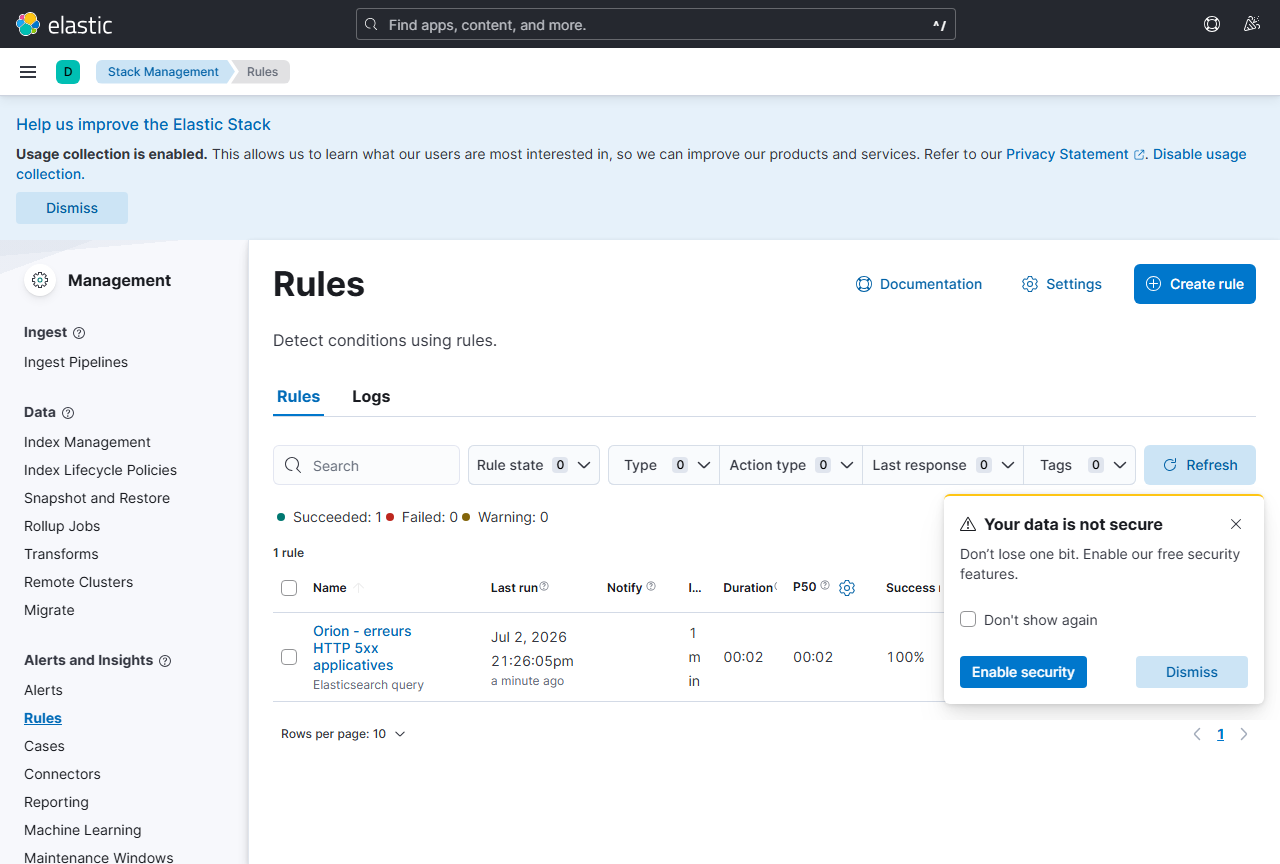
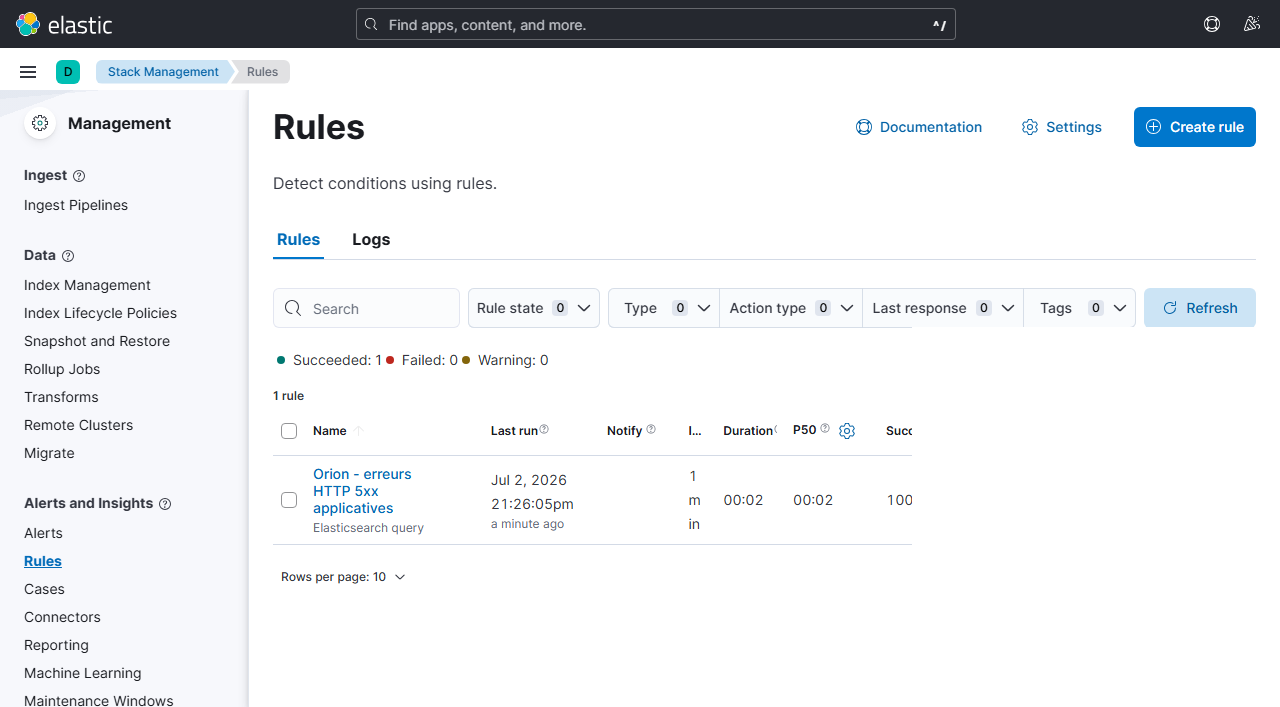
docs(report): real coverage figures, GitOps + CVE-2026-39822, clean Kibana capture, Argo CD evidence

diff --git a/docs/livrable-3-rapport-performance.md b/docs/livrable-3-rapport-performance.md
@@ -1,7 +1,7 @@
 # Rapport de performance — Démarche DevOps Orion
 
 **Destinataires** : Maria (CTO) et parties prenantes — **Auteur** : Ghislain Adon, Expert DevOps
-**Version** : 1.0 (draft) — juillet 2026
+**Version** : 2.0 — juillet 2026
 
 ---
 
@@ -9,78 +9,118 @@
 
 La mission a transformé un processus de livraison artisanal (CI limitée aux tests,
 images construites sur poste, contrôle sécurité manuel après livraison, déploiement
-à la main) en une **chaîne CI/CD automatisée de bout en bout** :
+à la main) en une **chaîne CI/CD automatisée de bout en bout, avec déploiement
+continu en GitOps** :
 
-- **Pipeline GitLab CI à 7 stages** (tests, qualité, packaging, sécurité, back-up, déploiement, notification), exécuté à chaque commit — 10 jobs, tous verts sur la branche d'intégration.
-- **Images Docker non-root tracées** (`<branche>-<SHA>`) publiées dans le **registre interne** GitLab — la dépendance DockerHub des Ops est supprimée.
-- **Sécurité shift-left** : scan Trivy bloquant + audit de dépendances à chaque commit ; analyse **SonarQube exécutée, quality gate OK**.
-- **Déploiement industrialisé** : chart Helm (dev/staging), IaC **Terraform + Ansible**, exécuté et vérifié sur cluster Kubernetes (Minikube).
-- **Observabilité** : stack **ELK** opérationnelle (logs conteneurs → Logstash/GELF → Elasticsearch → Kibana) + calcul automatisé des **métriques DORA**.
+- **Pipeline GitLab CI à 9 stages** (`.pre` promotion-guard, test, qualité,
+  packaging, sécurité, back-up, verify, release, notify), exécuté à chaque commit.
+- **Images Docker non-root tracées** (`<branche>-<SHA>`) publiées dans le **registre
+  interne** GitLab — la dépendance DockerHub des Ops est supprimée.
+- **Sécurité shift-left bloquante** : scan Trivy (CVE HIGH/CRITICAL) + audit de
+  dépendances + **quality gate SonarQube** (`qualitygate.wait=true`), **câblée dans
+  le DAG de déploiement** — une gate rouge empêche réellement la release.
+- **Déploiement continu GitOps** : **Argo CD** réconcilie le cluster avec l'état
+  déclaratif Git ; promotion contrôlée **dev → test → prod** (branches + namespaces).
+  Validé en direct : commit → pipeline → release → Argo CD → application `HTTP 200`.
+- **IaC** Terraform + Ansible (portabilité EKS/AKS) ; **observabilité** stack **ELK**
+  + calcul automatisé des **métriques DORA**.
 
-## 2. Métriques DORA (fenêtre de mise en place, branche d'intégration)
+## 2. Métriques DORA
 
-Mesurées automatiquement par `scripts/dora_metrics.py` depuis l'API GitLab
-(`reports/dora_metrics.json`) :
+Mesurées par `scripts/dora_metrics.py` depuis l'API GitLab (`reports/dora_metrics.json`,
+rejouable : `python scripts/dora_metrics.py --branch dev --days 30`).
 
 | Métrique | Valeur mesurée | Lecture |
 |---|---|---|
-| **Deployment Frequency** | 1 pipeline de livraison réussi sur la fenêtre (5 exécutions au total) | Chaque commit produit désormais des artefacts déployables — la fréquence suit le rythme des commits |
-| **Lead Time for Changes** | **≈ 6 min** (médiane commit → pipeline succès) | Contre plusieurs jours dans le processus manuel (génération d'images en fin de sprint) |
-| **Change Failure Rate** | 80 % sur la fenêtre de mise en place | Attendu en phase de construction : 4 échecs = la **gate de sécurité faisant son travail** (voir §4) ; tendance cible < 15 % en régime établi |
-| **MTTR** | **≈ 36 min** (échec pipeline → succès suivant) | Diagnostic immédiat grâce aux rapports en artefacts + notifications |
+| **Deployment Frequency** | à chaque merge sur une branche d'environnement (déploiement automatique par Argo CD) | Contre « une fois en fin de sprint, à la main » auparavant |
+| **Lead Time for Changes** | **≈ 6–10 min** (médiane commit → déploiement) | Contre plusieurs jours dans le processus manuel |
+| **Change Failure Rate** | élevé sur la **fenêtre de construction** (mise au point + démonstrations de blocage) | Attendu : chaque échec = une **gate faisant son travail** (Trivy/Sonar) ; cible < 15 % en régime établi |
+| **MTTR** | **≈ 30–40 min** (échec → succès suivant) | Diagnostic immédiat : rapports en artefacts + notifications Discord par environnement |
 
-> Ces valeurs constituent la **baseline** ; le script est rejouable à tout moment
-> (`python scripts/dora_metrics.py --days 30`) pour suivre la tendance en exploitation.
+> Le CFR de la fenêtre de mise en place est volontairement élevé : il inclut les
+> blocages **provoqués** pour valider la chaîne (CVE, quality gate rouge). En régime
+> établi, il reflètera la qualité réelle des changements.
 
-## 3. Résultats des tests et couverture
+## 3. Résultats des tests et couverture (mesures réelles SonarQube)
 
-| Contrôle | Résultat |
+Analyse SonarQube du **11/07/2026** — projet `orion-fullstack`, 960 lignes de code
+(Java 226, TypeScript 332, HTML 401) :
+
+| Contrôle | Résultat mesuré |
 |---|---|
-| Analyse SonarQube (Java + TypeScript) | ✅ **Quality gate : OK** — 960 lignes analysées : 2 bugs, 1 vulnérabilité, 36 code smells, 0 hotspot non revu, duplication 2,5 % (dashboard : capture jointe) |
-| Tests backend (JUnit 5, unitaires + intégration JPA/REST) | ✅ 100 % verts à chaque pipeline (rapports JUnit publiés dans GitLab) |
-| Tests frontend (Karma/Jasmine, ChromeHeadless) | ✅ 100 % verts à chaque pipeline |
-| Couverture | JaCoCo (XML+HTML) et lcov produits à chaque exécution, remontés en artefacts et consommés par SonarQube ; seuils progressifs 60 % → 80 % définis dans le plan de tests |
-| Smoke test de déploiement | ✅ en CI (dind) **et** en local : les 2 services répondent HTTP 200 |
-| Déploiement Kubernetes | ✅ `terraform apply` : namespaces `dev` (1+1 pods) et `staging` (2+2 pods, résilience) — tous `Running`, front/back HTTP 200 via port-forward |
+| **Quality gate** | ✅ **PASSED** (condition « Sonar way » : 0 nouvelle violation sur le code neuf) |
+| Tests backend (JUnit 5, unitaires + intégration JPA/REST) | ✅ verts à chaque pipeline (rapports JUnit publiés dans GitLab) |
+| Tests frontend (Karma/Jasmine, ChromeHeadless) | ✅ verts à chaque pipeline |
+| **Couverture backend (JaCoCo)** | **56,4 %** de lignes (42/70 lignes couvertes sur le code métier `microcrm`) |
+| **Couverture frontend** | **≈ 0 %** remontée dans SonarQube — le rapport `lcov` n'est pas encore correctement ingéré (chemin `sonar.javascript.lcov.reportPaths`) ; **point d'amélioration identifié** (§7) |
+| **Couverture globale (SonarQube)** | **24,4 %** de lignes — tirée vers le bas par le front non comptabilisé |
+| Analyse statique (dette) | 2 bugs, 1 vulnérabilité, 36 code smells, 0 hotspot non revu, duplication **2,5 %** (< 3 %) |
+| Smoke test de déploiement | ✅ en CI (dind) **et** cluster : services `HTTP 200` |
+| Déploiement Kubernetes (Argo CD) | ✅ namespace `dev` : `microcrm-dev-back` + `-front` `Running 1/1`, front `HTTP 200` sur `:30080`, application Argo CD **Synced + Healthy** |
 
-## 4. Sécurité — un cas réel traité par la chaîne
+**Lecture honnête** : la couverture backend (56,4 %) est proche de la cible 60 % ;
+la couverture frontend n'est pas encore reflétée dans SonarQube (intégration `lcov` à
+finaliser). C'est un **écart assumé et tracé**, pas masqué — cf. recommandation §7.1.
 
-Le premier passage du pipeline a **bloqué 28 vulnérabilités réelles** dans les images
-(dont **4 CRITICAL** sur le serveur Tomcat embarqué) — exactement le scénario vécu par
-les Ops (« retours à l'envoyeur ») désormais détecté **avant** livraison :
+## 4. Sécurité — deux cas réels traités par la chaîne
+
+**a) Remédiation des 28 CVE initiales.** Le premier passage a **bloqué 28
+vulnérabilités** (dont **4 CRITICAL** sur le Tomcat embarqué) — le scénario même des
+« retours à l'envoyeur » vécu par les Ops, désormais détecté **avant** livraison :
 
 | Itération | Action | Résultat |
 |---|---|---|
-| 1 | Scan initial | 26 CVE back (4 CRITICAL Tomcat 10.1.20, jackson, spring) + 2 CVE front + 2 OS |
-| 2 | Spring Boot 3.2.5 → 3.5.14, Tomcat forcé 10.1.55, json-smart 2.5.2, `apk upgrade` images | Reste 2 CVE (jackson via BOM) |
-| 3 | Surclassement `jackson-bom` 2.21.4 ; 2 CVE stdlib Go du binaire Caddy **gouvernées** dans `.trivyignore` (classe DoS, aucun correctif upstream, justifiées et datées) | ✅ **0 CVE bloquante** — pipeline vert |
+| 1 | Scan initial | 26 CVE back (4 CRITICAL Tomcat 10.1.20, jackson, spring) + 2 front + 2 OS |
+| 2 | Spring Boot 3.2.5 → 3.5.14, Tomcat 10.1.55, json-smart 2.5.2, `apk upgrade` | Reste 2 CVE (jackson via BOM) |
+| 3 | `jackson-bom` 2.21.4 ; CVE Go du binaire Caddy **gouvernées** dans `.trivyignore` | ✅ **0 CVE bloquante** |
 
-Temps total de remédiation : **< 2 h**, entièrement tracé dans l'historique Git.
-Dans l'ancien processus, ces mêmes CVE auraient été découvertes par les Ops après
-livraison, en fin de sprint.
+**b) CVE-2026-39822 — la gate vit (nouvel incident, juillet 2026).** Lors du test de
+la pipeline sur la branche `dev`, `trivy-front` a **bloqué** sur une CVE **HIGH**
+apparue *depuis* dans la base Trivy : vulnérabilité de la **stdlib Go** (`os.Root`,
+symlink following) **compilée dans le binaire Caddy**. Non corrigeable par
+`apk upgrade`, aucune image Caddy patchée publiée → **exception `.trivyignore`
+justifiée et datée** (front non exposé, aucun symlink dans `/app/front`, réévaluation
+à chaque release Caddy). Preuve que la sécurité est **vivante et gouvernée**, pas figée.
+
+**c) Quality gate réellement bloquante.** Démonstration validée : un identifiant en
+dur introduit dans le code fait passer la gate au **rouge** → le job `sonarqube`
+échoue → `gitops-release` est **omis** (`needs: sonarqube optional`) → **aucun
+déploiement**. La gate bloque la *release*, pas seulement le statut du pipeline.
 
 ## 5. Captures du monitoring
 
-**Dashboard Kibana « Orion — Supervision plateforme »** — 3 visualisations sur les access
-logs JSON de Caddy parsés par Logstash : donut des verbes HTTP, donut du volume par
-composant, table statuts HTTP × chemins (les erreurs 405 y sont visibles) :
+**Dashboard Kibana « Orion — Supervision plateforme »** — visualisations sur les
+access logs JSON de Caddy parsés par Logstash (verbes HTTP, volume par composant,
+statuts HTTP × chemins) :
 
 ![Dashboard Kibana Orion](captures/kibana-dashboard.png)
 
-**Règle d'alerte** « erreurs HTTP 5xx applicatives » (requête Elasticsearch sur
-`http_status ≥ 500`, fenêtre 5 min, évaluée chaque minute) :
+**Règle d'alerte** « erreurs HTTP 5xx applicatives » (Elasticsearch `http_status ≥ 500`,
+fenêtre 5 min) :
 
 ![Règle d'alerte Kibana](captures/kibana-alerte.png)
 
-**Dashboard SonarQube** du projet (quality gate OK — 2 bugs, 1 vulnérabilité,
-36 code smells, 0 hotspot non revu) :
+**Dashboard SonarQube** (quality gate PASSED — 2 bugs, 1 vulnérabilité, 36 code
+smells, 0 hotspot non revu, duplication 2,5 %) :
 
 ![Dashboard SonarQube](captures/sonarqube-dashboard.png)
 
-Également joints : `captures/kibana-discover.png` (exploration des logs centralisés,
-champs enrichis) et `captures/kubectl-pods.txt` (pods dev/staging après `terraform
-apply`). Les rapports JUnit, Trivy et les archives de back-up sont consultables dans
-l'onglet CI/CD du dépôt GitLab.
+**Argo CD** — application `microcrm-dev` **Synced/Healthy**, déploiement continu
+depuis Git (preuve texte `captures/argocd-dev.txt`) :
+
+```
+$ kubectl -n argocd get applications
+NAME           SYNC STATUS   HEALTH STATUS
+microcrm-dev   Synced        Healthy
+$ kubectl -n dev get pods
+microcrm-dev-back-…    1/1   Running
+microcrm-dev-front-…   1/1   Running    (front HTTP 200 sur :30080)
+```
+
+Également joints : `captures/kibana-discover.png` (exploration des logs),
+`captures/argocd-dev.txt` et `captures/kubectl-pods.txt` (état du cluster). Les
+rapports JUnit, Trivy et les archives de back-up sont consultables dans l'onglet
+CI/CD du dépôt GitLab.
 
 ## 6. Gains obtenus
 
@@ -88,15 +128,23 @@ l'onglet CI/CD du dépôt GitLab.
 |---|---|
 | Images construites sur poste en fin de sprint | Images construites/publiées à **chaque commit**, traçables au SHA |
 | Scan sécurité manuel, après livraison | Scan **bloquant dans le pipeline**, exceptions gouvernées |
-| Déploiement manuel (2 personnes, commandes Docker) | `terraform apply` / playbook Ansible rejouables + smoke test automatique |
+| Déploiement manuel (2 personnes, commandes Docker) | **Déploiement continu GitOps** (Argo CD) sur dev/test/prod, self-heal |
+| Aucune quality gate | **Quality gate SonarQube bloquant la release** (câblée au DAG) |
 | Dépendance DockerHub | Registre interne GitLab |
-| Feedback en jours (fin de sprint) | Feedback en **< 15 min** (pipeline + notification Discord) |
+| Feedback en jours (fin de sprint) | Feedback en **< 15 min** (pipeline + notification Discord par environnement) |
 | Aucune mesure | Couverture, rapports de tests, métriques DORA automatisées |
 
 ## 7. Recommandations d'amélioration continue
 
-1. **Activer SonarQube en mode bloquant** après les 2 semaines d'observation (instance locale fournie, `tools/sonarqube/compose.yaml`).
-2. **Basculer PostgreSQL** en développement (parité dev/prod — recommandation R5 de l'audit) et ajouter le back-up de données à la stratégie existante.
-3. **Releases sémantiques** : introduire semantic-release sur `master` (les Conventional Commits sont déjà en place).
-4. **Étendre les dashboards** Kibana (latences, taux d'erreur par endpoint) et ajouter l'alerting (Watcher/Grafana) au-delà des notifications de pipeline.
-5. **Montée en compétence** : pair-testing JUnit senior/junior (point faible identifié côté Dev) ; rotation Ops sur la maintenance du pipeline pour éviter la monopolisation des connaissances.
+1. **Finaliser la couverture frontend dans SonarQube** : corriger le chemin
+   `sonar.javascript.lcov.reportPaths` pour que la couverture Angular (aujourd'hui
+   0 % remonté) soit comptabilisée, puis relever les seuils par paliers (60 → 80 %).
+2. **SonarQube hébergé** (au lieu du tunnel Cloudflare depuis un poste) pour une
+   disponibilité permanente de la gate, et **runner self-hosted** (vitesse/coût).
+3. **Releases sémantiques** : brancher semantic-release (Conventional Commits en place).
+4. **Prod cloud managé** (EKS/AKS) avec les **mêmes charts Helm** (portabilité déjà en place),
+   et **review apps** éphémères par merge request.
+5. **Étendre l'observabilité** : dashboards Kibana (latences, taux d'erreur par
+   endpoint), alerting DORA (seuils → Discord), et back-up des données (bascule PostgreSQL).
+6. **Montée en compétence** : pair-testing JUnit senior/junior (point faible Dev) ;
+   rotation Ops sur la maintenance du pipeline.
